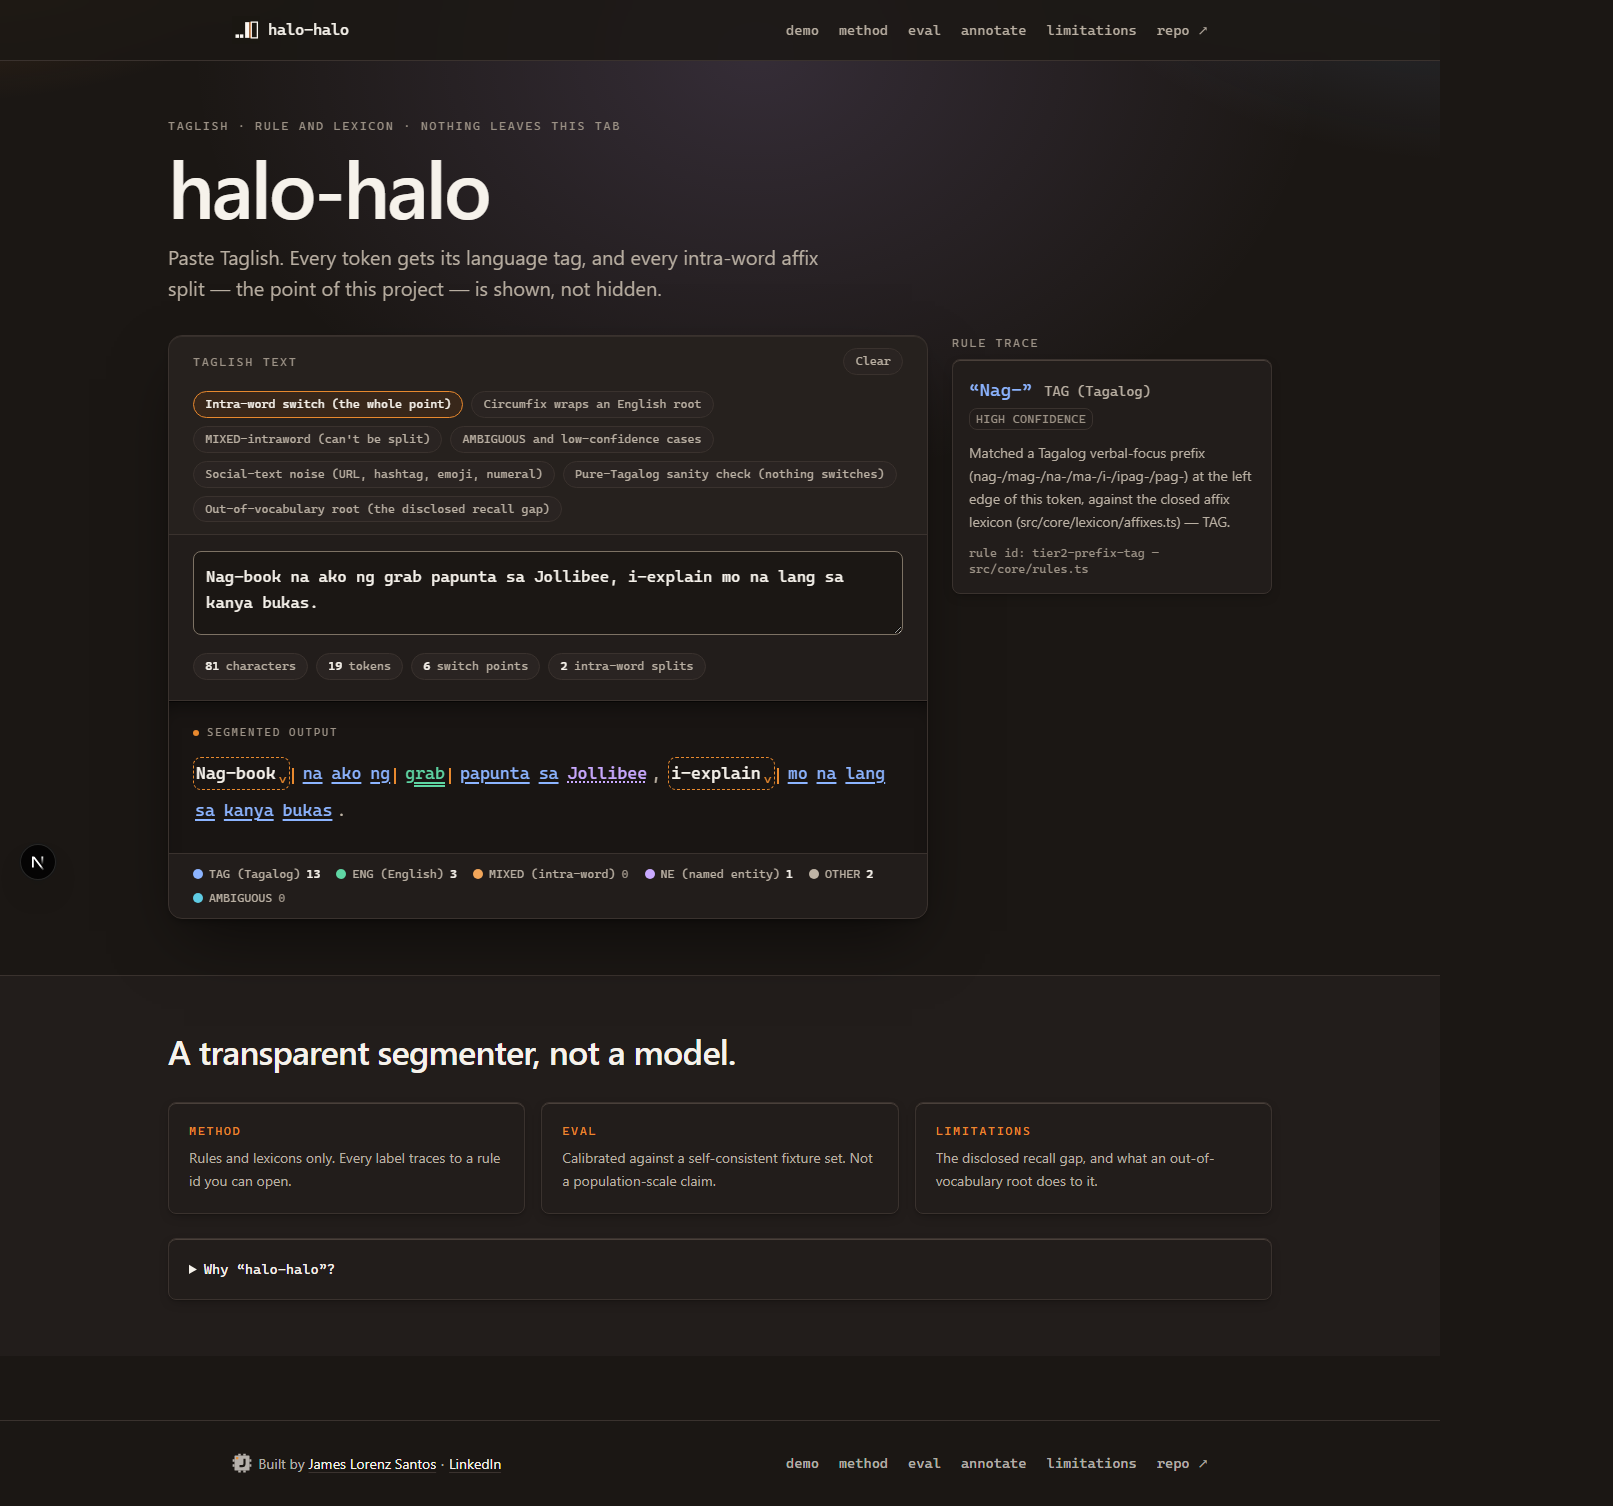
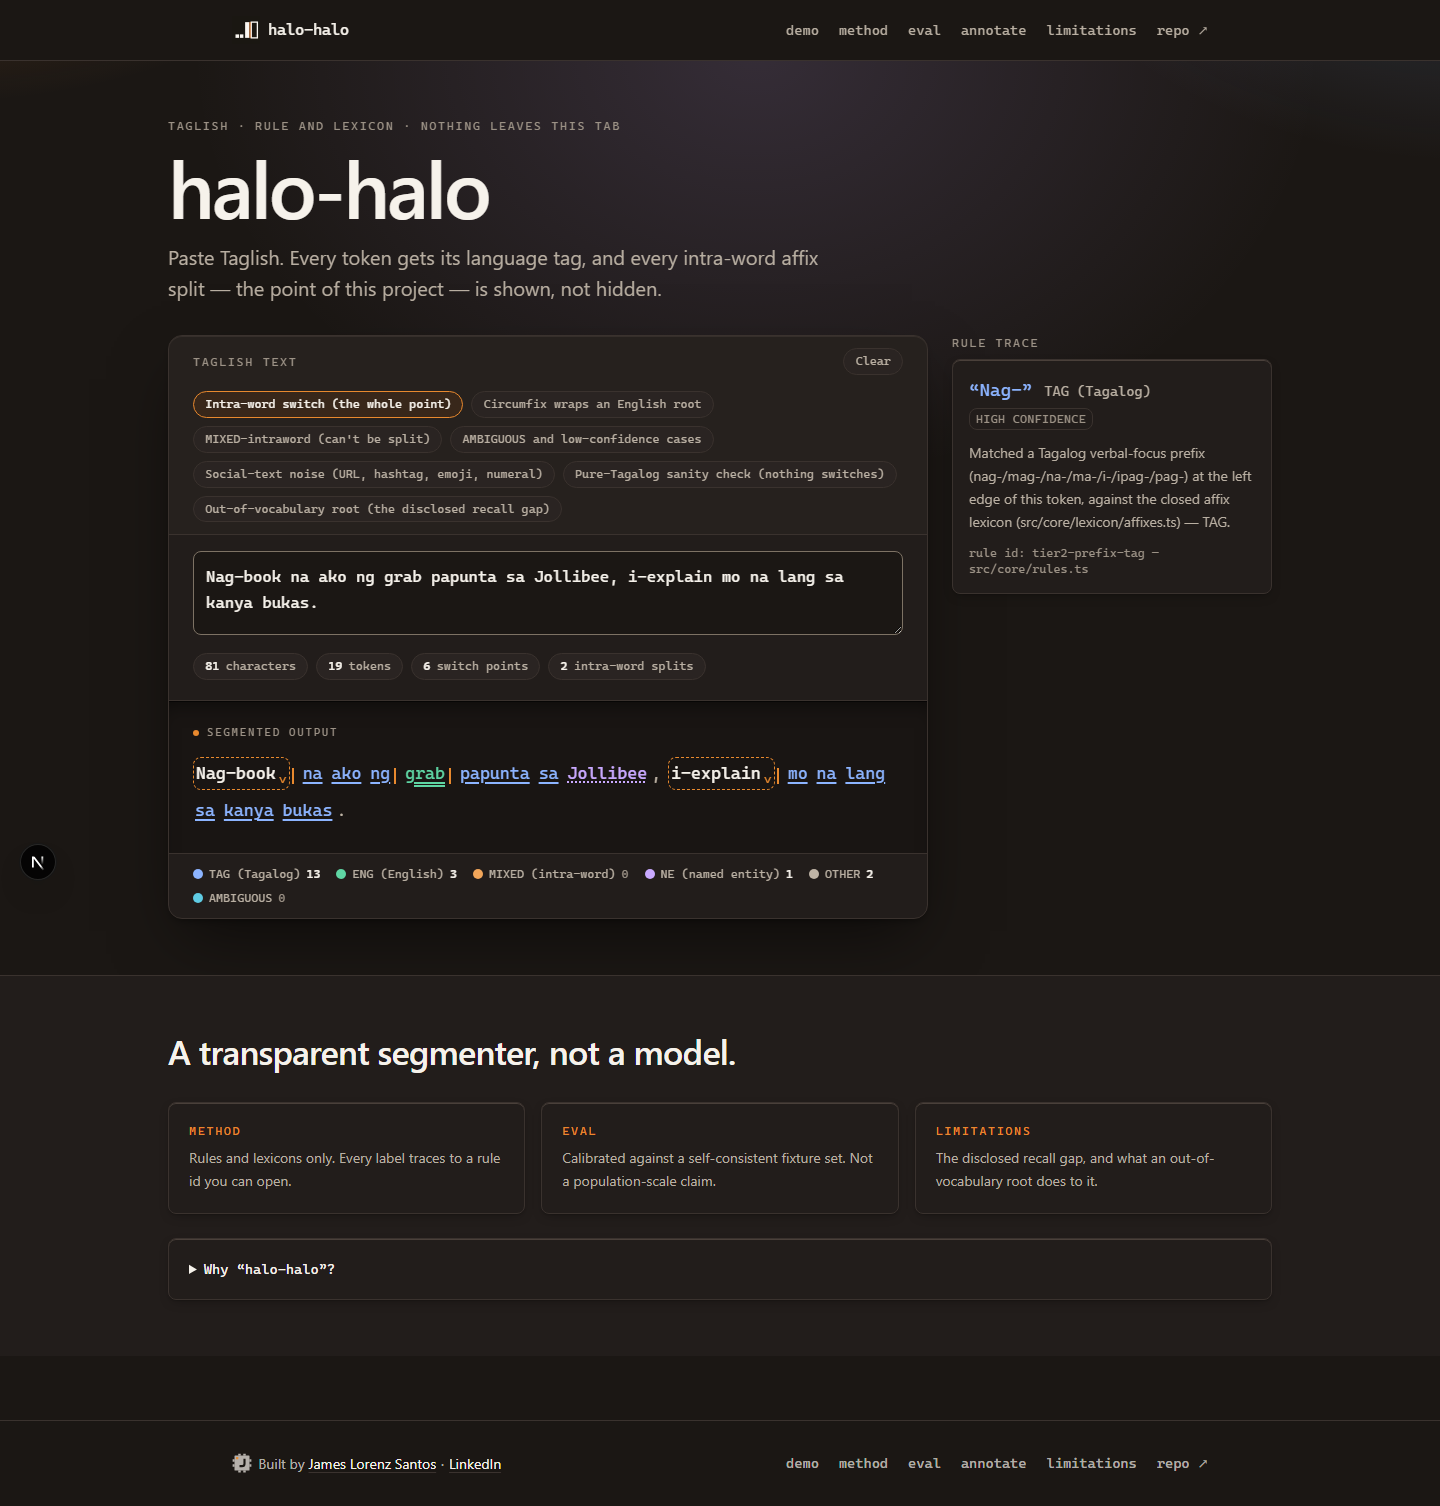
fix(ui): clip the hero bloom to its own box
The ambient gradient is inset 12% past the hero on purpose. Unclipped,
the full-page render measured 437px wide at a 390px viewport even though
the in-viewport scrollWidth read a clean 390 -- so the overflow check
that runs at viewport size never saw it. Every after-* screenshot is now
exactly 1440 or 390 wide.

Claude-Session: https://claude.ai/code/session_019rfvjaP9hvT368bXjyYaBM

diff --git a/src/app/globals.css b/src/app/globals.css
@@ -118,6 +118,10 @@ a {
   .ambient {
     position: relative;
     isolation: isolate;
+    /* The bloom is inset past this box on purpose; clip contains it. Without
+       this the full-page render measured 437px wide at a 390px viewport,
+       even though the in-viewport scrollWidth read a clean 390. */
+    overflow: clip;
   }
   .ambient::before {
     content: "";
